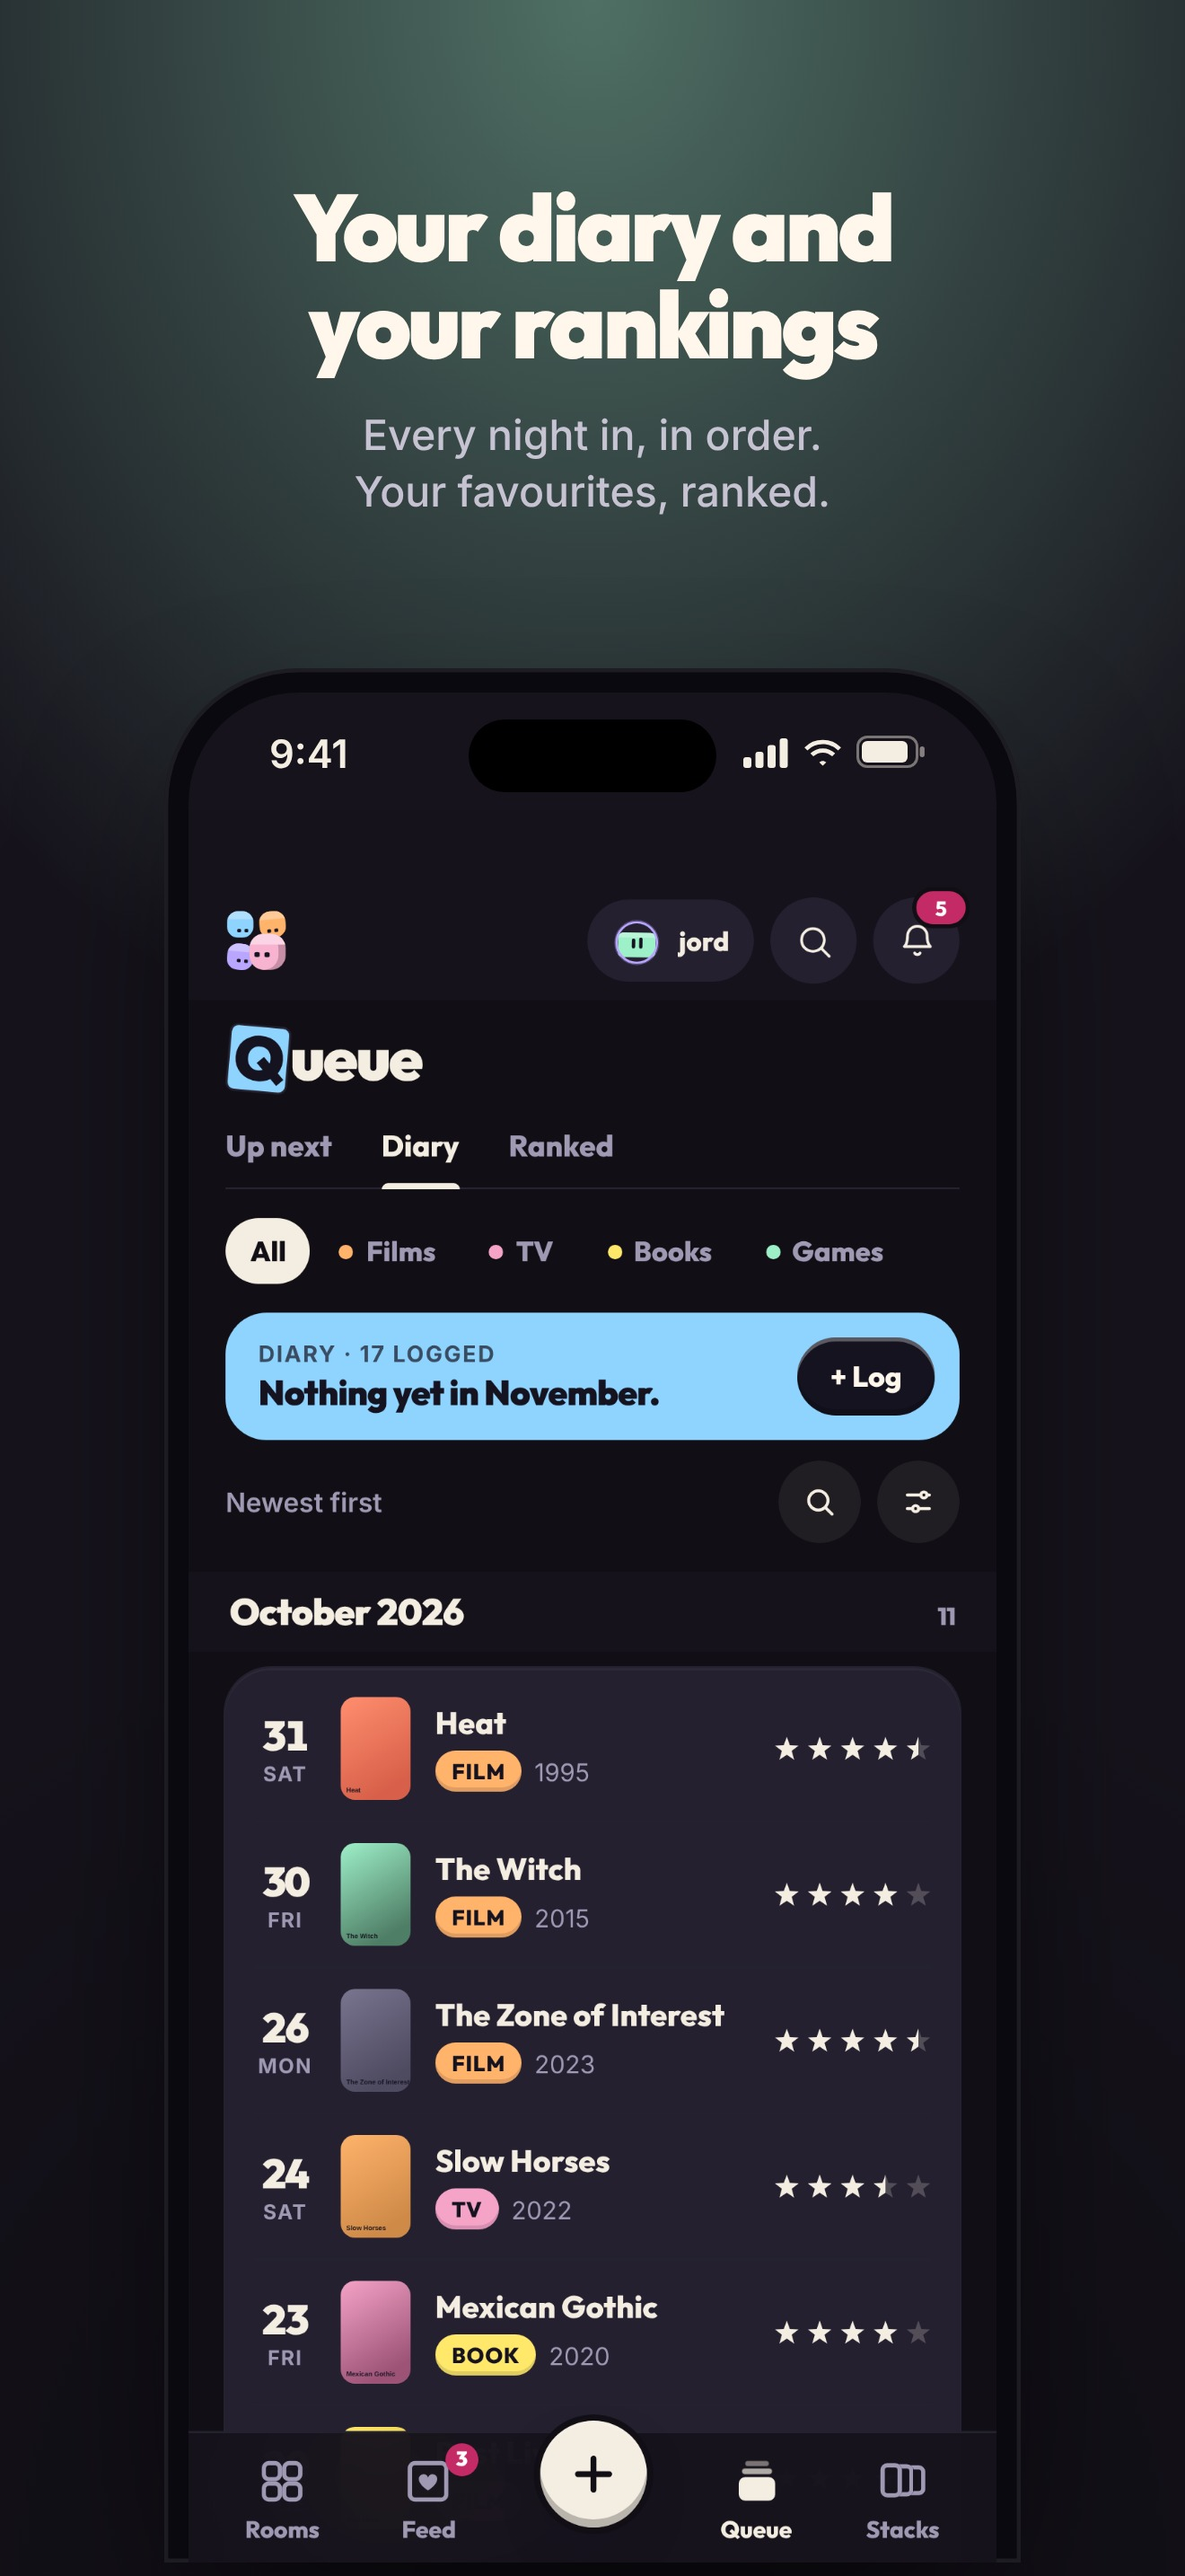
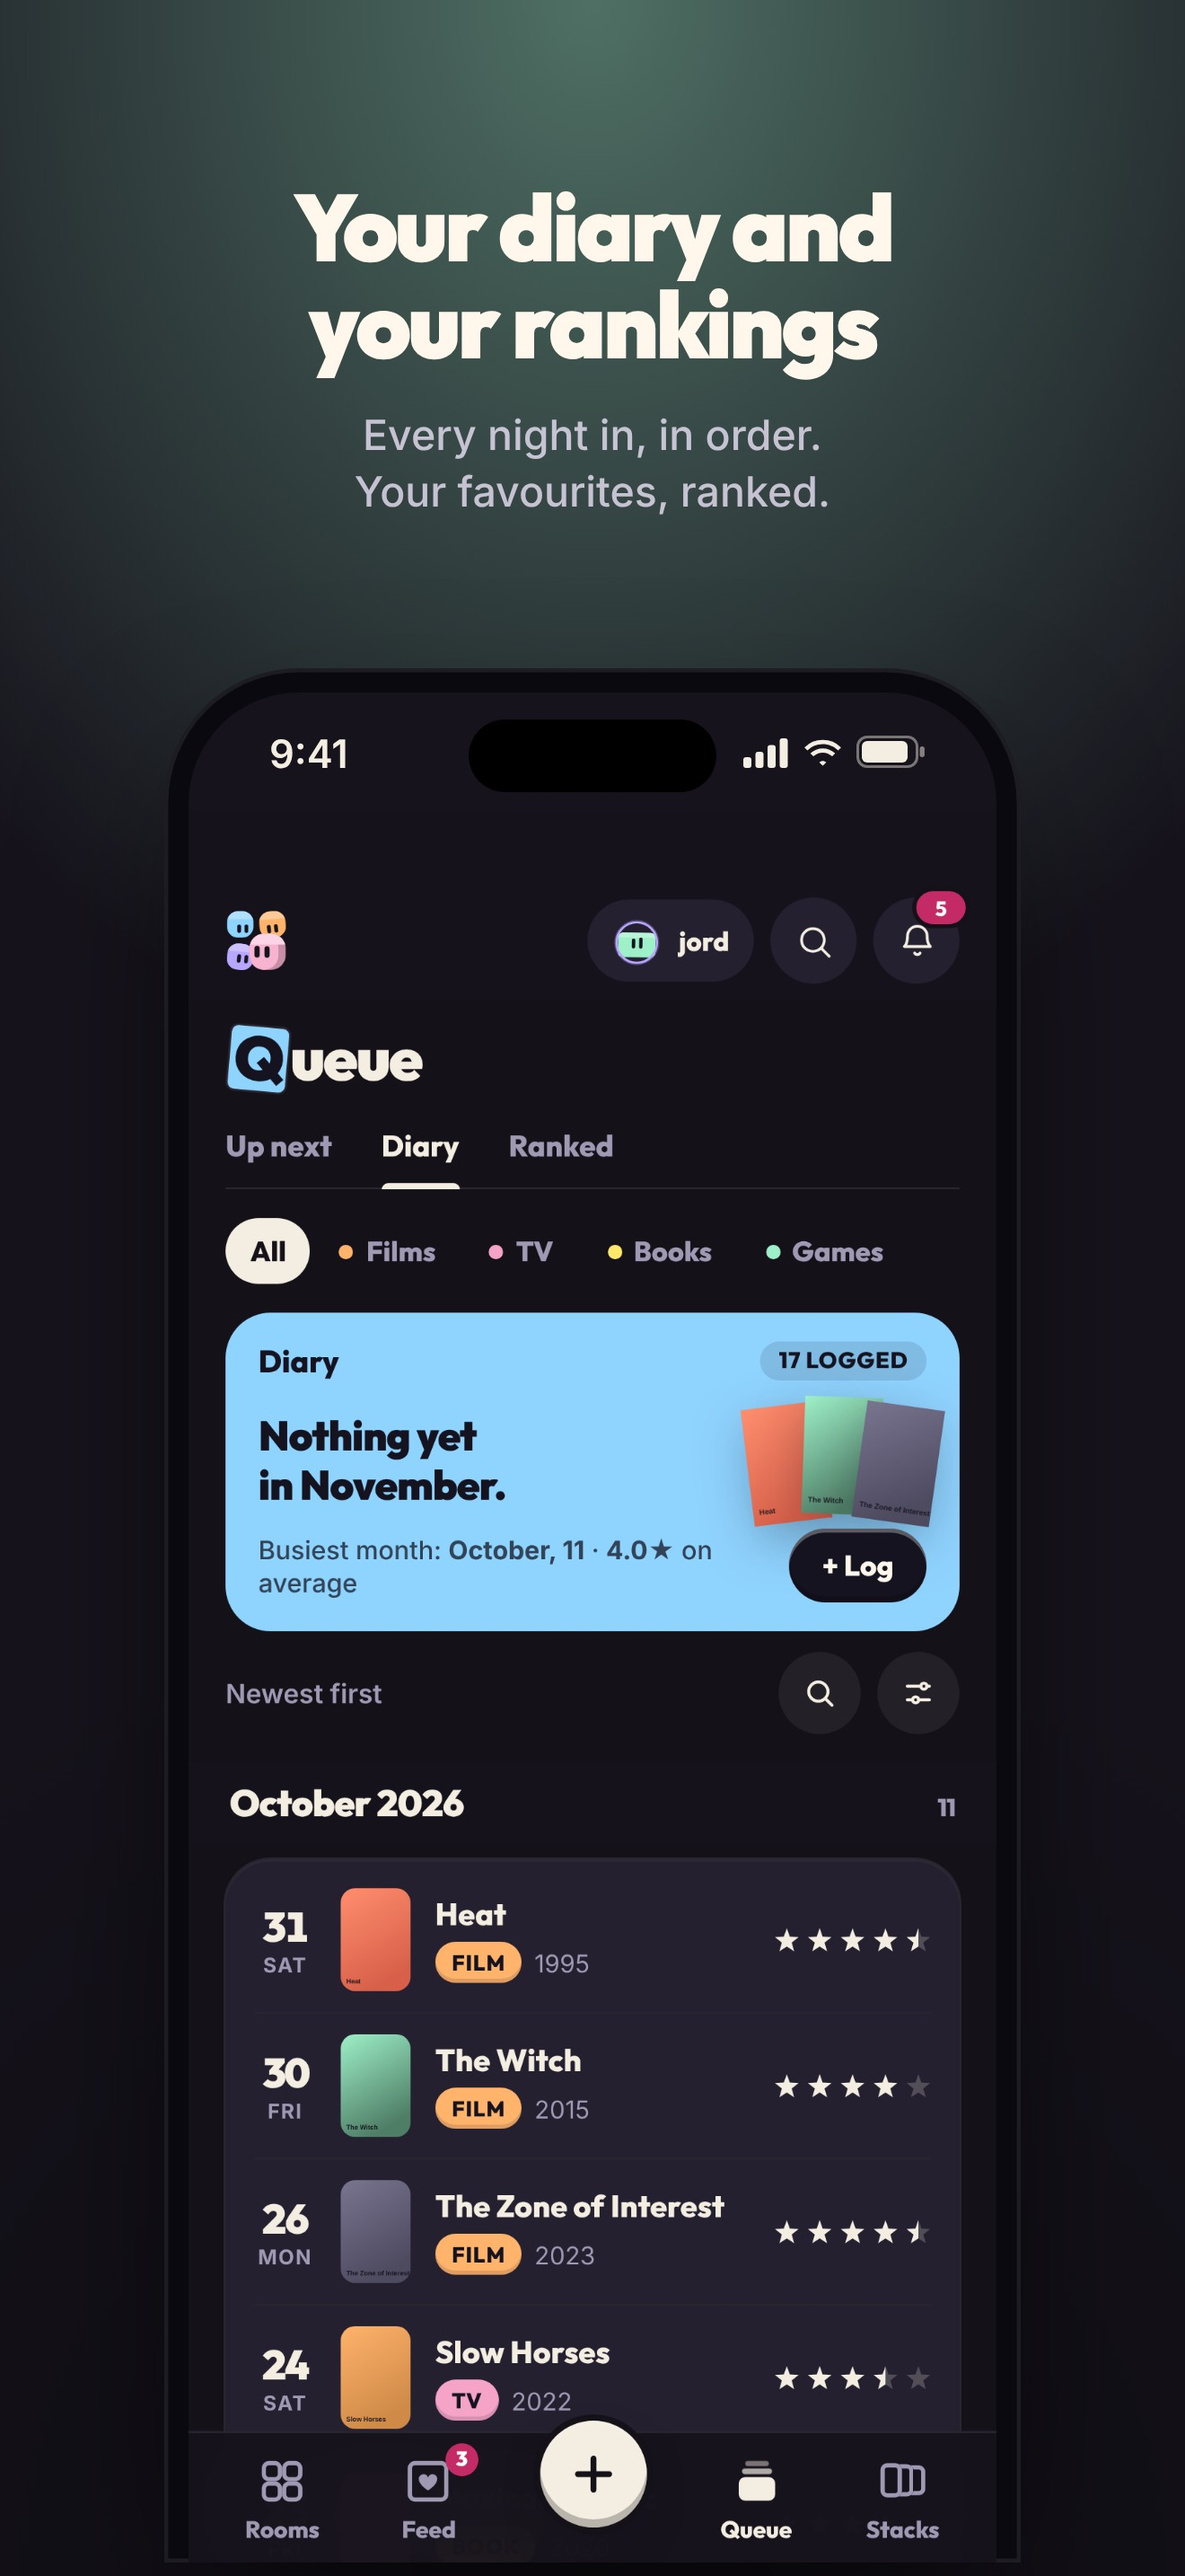
Diary, Ranked and Stacks: a middle-size top block
The slim row was too small. These three now get a middle size: the label and count,
a 20px headline with small posters beside it, and the line under it with a small
button (+ Log, Sharpen, + New) at its end. About two-thirds the height of Up next's.

Claude-Session: https://claude.ai/code/session_011zRNukvtAgYpnhJAdsmgH9

diff --git a/index.html b/index.html
@@ -2167,13 +2167,16 @@ nav button .dot{top:0;right:calc(50% - 24px)}
   padding:.03em .07em .05em;margin:0 .03em;rotate:var(--r,0deg);line-height:.95}
 .roomhero .pagetitle .mk{--mkc:#FFF7EC}
 .roomhero .feedpick .hl{padding:.12em .1em;margin:-.12em -.1em}
-/* the slim top block: same colour, one short row */
-.hero.slim{display:flex;align-items:center;gap:12px;padding:12px 12px 12px 16px;border-radius:20px}
-.hero.slim::before{content:none}
-.hero.slim .hs-t{flex:1;min-width:0;display:grid;gap:2px}
-.hero.slim .hs-t small{font:700 11px var(--body);letter-spacing:.07em;text-transform:uppercase;opacity:.7}
-.hero.slim .hs-t b{font:900 17px/1.2 var(--head);letter-spacing:-.02em;display:-webkit-box;-webkit-line-clamp:2;-webkit-box-orient:vertical;overflow:hidden}
-.hero.slim .hero-go{width:auto;flex:none;padding:10px 16px;font-size:14px;min-height:0}
+/* the middle-size top block: the big one's pieces, about two-thirds the height */
+.hero.mid{padding:14px 16px 14px}
+.hero.mid::before{content:none}
+.hero.mid .gprompt{font-size:20px;margin:6px 0 6px}
+.hero.mid .hero-fan{padding-top:6px}
+.hero.mid .hero-po{width:38px;margin-right:-11px}.hero.mid .hero-po .co{width:38px;height:56px;border-radius:7px}
+.hero.mid .hero-fan.four .hero-po{width:34px;margin-right:-10px}.hero.mid .hero-fan.four .hero-po .co{width:34px;height:50px}
+.hm-foot{display:flex;align-items:center;gap:12px;position:relative}
+.hm-foot .gline{flex:1;min-width:0;margin:0}
+.hm-foot .hero-go{width:auto;flex:none;padding:9px 16px;font-size:14px;min-height:0}
 .chip.addown{border:1.5px dashed color-mix(in srgb,var(--mute) 60%,transparent);background:none;color:var(--mute)}
 .stk-bar{display:flex;gap:8px;align-items:center;margin:12px 0 14px}
 .stk-bar input{flex:1;min-width:0;margin:0}
@@ -8635,11 +8638,12 @@ const LENS = `<svg viewBox="0 0 24 24" aria-hidden="true"><circle cx="11" cy="11
    a headline that says something true about what's in here, a line under it, up to four
    posters fanned on the right (each opens), and the one thing you'd do next. */
 function heroHTML(o) {
-  /* the slim one: the same colour in one short row, for pages that only need a nudge */
-  if (o.slim) return `<div class="card game promptcard hero slim${o.cls ? " " + o.cls : ""}"${o.id ? ` id="${o.id}"` : ""} style="--room:${o.col.startsWith("#") ? o.col : `var(--${o.col})`}">
-    <div class="hs-t"><small>${esc(o.label)}<span class="hs-tag">${o.tag ? " · " + esc(o.tag) : ""}</span></small><b>${o.head}</b></div>
-    ${o.btn ? `<button class="btn hero-go" id="${o.btn.id}" type="button"${o.btn.aria ? ` aria-label="${esc(o.btn.aria)}"` : ""}>${o.btn.icon || ""}${esc(o.btn.label)}</button>` : ""}</div>`;
   const fan = (o.fan || []).filter(Boolean).slice(0, 4);
+  /* the middle size: the same pieces, smaller, with the button beside the line under it */
+  if (o.mid) return `<div class="card game promptcard hero mid${o.cls ? " " + o.cls : ""}"${o.id ? ` id="${o.id}"` : ""} style="--room:${o.col.startsWith("#") ? o.col : `var(--${o.col})`}">
+    <div class="h"><span>${esc(o.label)}</span><span class="tag dim hs-tag"${o.tag ? "" : " hidden"}>${esc(o.tag || "")}</span></div>
+    <div class="hero-body"><div class="gprompt">${o.head}</div>${fan.length ? `<div class="hero-fan${fan.length > 3 ? " four" : ""}">${fan.map(w => `<button class="hero-po" data-herow="${esc(w.id)}" type="button" aria-label="${esc(w.title || "")}">${cover(w, "")}</button>`).join("")}</div>` : ""}</div>
+    <div class="hm-foot"><p class="sub gline">${o.meta || ""}</p>${o.btn ? `<button class="btn hero-go" id="${o.btn.id}" type="button"${o.btn.aria ? ` aria-label="${esc(o.btn.aria)}"` : ""}>${o.btn.icon || ""}${esc(o.btn.label)}</button>` : ""}</div></div>`;
   return `<div class="card game promptcard hero${o.cls ? " " + o.cls : ""}"${o.id ? ` id="${o.id}"` : ""} style="--room:${o.col.startsWith("#") ? o.col : `var(--${o.col})`}">
     <div class="h"><span>${esc(o.label)}</span>${o.tag ? `<span class="tag dim">${esc(o.tag)}</span>` : ""}</div>
     <div class="hero-body"><div class="gprompt">${o.head}</div>${fan.length ? `<div class="hero-fan${fan.length > 3 ? " four" : ""}">${fan.map(w => `<button class="hero-po" data-herow="${esc(w.id)}" type="button" aria-label="${esc(w.title || "")}">${cover(w, "")}</button>`).join("")}</div>` : ""}</div>
@@ -8663,7 +8667,7 @@ function paintCabHero() { const el = $("#cabHero"); if (!el) return;
     const avg = es.length ? es.reduce((t, e) => t + e.score, 0) / es.length / 2 : 0;
     const recent = es.slice().sort((a, b) => String(b.rated_on).localeCompare(String(a.rated_on)) || String(b.created_at || "").localeCompare(String(a.created_at || ""))).slice(0, 3).map(e => works[e.work_id]);
     const bits = [best && best[0] !== ym && best[1] > m ? `Busiest month: <b>${MONTH_FULL[+best[0].slice(5) - 1]}, ${best[1]}</b>` : "", es.length ? `<b>${avg.toFixed(1)}★</b> on average` : ""].filter(Boolean);
-    el.innerHTML = heroHTML({ slim:true, col, label:"Diary", tag:`${es.length} logged`,
+    el.innerHTML = heroHTML({ mid:true, col, label:"Diary", tag:`${es.length} logged`,
       head:m ? `${numWord(m)} ${m === 1 ? one : what} so far in ${MONTH_FULL[now.getMonth()]}.` : `Nothing yet in ${MONTH_FULL[now.getMonth()]}.`,
       meta:bits.join(" · "), fan:recent, btn:{ id:"cabHeroGo", label:"+ Log", aria:k ? `Log ${k === "tv" ? "a show" : k === "game" ? "a game" : k === "book" ? "a book" : "a film"}` : "Log something" } });
     $("#cabHeroGo", el).onclick = () => openAdd(); }
@@ -8672,9 +8676,8 @@ function paintCabHero() { const el = $("#cabHero"); if (!el) return;
     const tops = kinds.map(x => works[(rankCache[x] || []).find(id => works[id])]).filter(Boolean);
     const counts = kinds.map(x => [x, (rankCache[x] || []).filter(id => works[id]).length]);
     const big = counts.slice().sort((a, b) => b[1] - a[1])[0];
-    const head = !tops.length ? "Rate a few and your order builds itself." : k || tops.length === 1 ? `${esc(tops[0].title)} is your number one${k ? " " + one : ""}.`
-      : `Your number ones: ${tops.map(w => esc(w.title)).join(", ")}.`;
-    el.innerHTML = heroHTML({ slim:true, col, label:"Ranked", tag:`${counts.reduce((t, c) => t + c[1], 0)} in order`, head,
+    const head = !tops.length ? "Rate a few and your order builds itself." : k || tops.length === 1 ? `${esc(tops[0].title)} is your number one${k ? " " + one : ""}.` : "Your number ones.";
+    el.innerHTML = heroHTML({ mid:true, col, label:"Ranked", tag:`${counts.reduce((t, c) => t + c[1], 0)} in order`, head,
       meta:counts.map(([x, n]) => `${n} ${n === 1 ? (x === "tv" ? "show" : K(x).label.toLowerCase()) : x === "tv" ? "shows" : K(x).plural.toLowerCase()}`).join(" · "),
       fan:tops, btn:big && big[1] >= 2 ? { id:"cabHeroGo", label:"Sharpen", aria:`Sharpen your ${big[0] === "tv" ? "shows" : K(big[0]).plural.toLowerCase()}` } : null });
     const go = $("#cabHeroGo", el); if (go) go.onclick = () => $(`[data-sharpen="${big[0]}"]`)?.click(); }
@@ -13491,9 +13494,9 @@ async function renderStacks() {
   const tab = STACK_TABS.some(([k]) => k === P.stackTab) ? P.stackTab : "popular";
   const places = STACK_TABS.map(([k, n]) => place(k, n, "lilac", "clubs"));
   body.innerHTML = `${pagerHTML(places, tab, { id:"stackPager", mode:"tabs", title:"Stacks" })}
-    ${heroHTML({ slim:true, id:"stkHero", col:"pink", label:(STACK_TABS.find(([k]) => k === tab) || [, "Stacks"])[1], tag:"",
+    ${heroHTML({ mid:true, id:"stkHero", col:"pink", label:(STACK_TABS.find(([k]) => k === tab) || [, "Stacks"])[1], tag:"",
       head:tab === "yours" ? "Your stacks, and the ones you saved." : tab === "friends" ? "What your people have stacked." : "What would you stack?",
-      meta:tab === "yours" ? "Make one for anything: a mood, a director, a long weekend." : tab === "friends" ? "Stacks from the people you follow and your rooms." : "Films, shows, books and games, stacked by anyone. Save the ones you like.",
+      meta:tab === "yours" ? "One for a mood, a director, a weekend." : tab === "friends" ? "From people you follow and your rooms." : "Stacked by anyone. Save the ones you like.",
       btn:{ id:"stkNew", label:"+ New", aria:"Make a new stack" } })}
     <div class="stk-bar solo"><input id="stkSearch" type="search" placeholder="Search stacks or titles" aria-label="Search stacks" value="${esc(stackQ)}" autocomplete="off"></div>
     <div class="chips scroll stk-filters" id="stkFilters"></div>
@@ -13509,7 +13512,9 @@ async function renderStacks() {
   if (!$("#stkList")) return;
   const shapes = new Map(ls.map(l => [l.id, stackShape(l)]));
   /* the top block gets its count and a few covers once the stacks are in */
-  { const tg = $("#stkHero .hs-tag"); if (tg) tg.textContent = ` · ${ls.length} ${ls.length === 1 ? "stack" : "stacks"}`; }
+  { const hb = $("#stkHero"); if (hb) { const tg = $(".hs-tag", hb); if (tg) { tg.textContent = `${ls.length} ${ls.length === 1 ? "stack" : "stacks"}`; tg.hidden = false; }
+      const fan = ls.slice(0, 3).map(l => works[l.items[0]?.work_id]).filter(Boolean);
+      if (fan.length && !$(".hero-fan", hb)) { $(".hero-body", hb)?.insertAdjacentHTML("beforeend", `<div class="hero-fan">${fan.map(w => `<button class="hero-po" data-herow="${esc(w.id)}" type="button" aria-label="${esc(w.title || "")}">${cover(w, "")}</button>`).join("")}</div>`); wireHero(hb); } } }
   /* only the media and genres something here is actually of */
   const kindsHere = Object.keys(KINDS).filter(k => ls.some(l => shapes.get(l.id).kinds.has(k)));
   const tagCount = {}; ls.forEach(l => shapes.get(l.id).tags.forEach(t => tagCount[t] = (tagCount[t] || 0) + 1));
